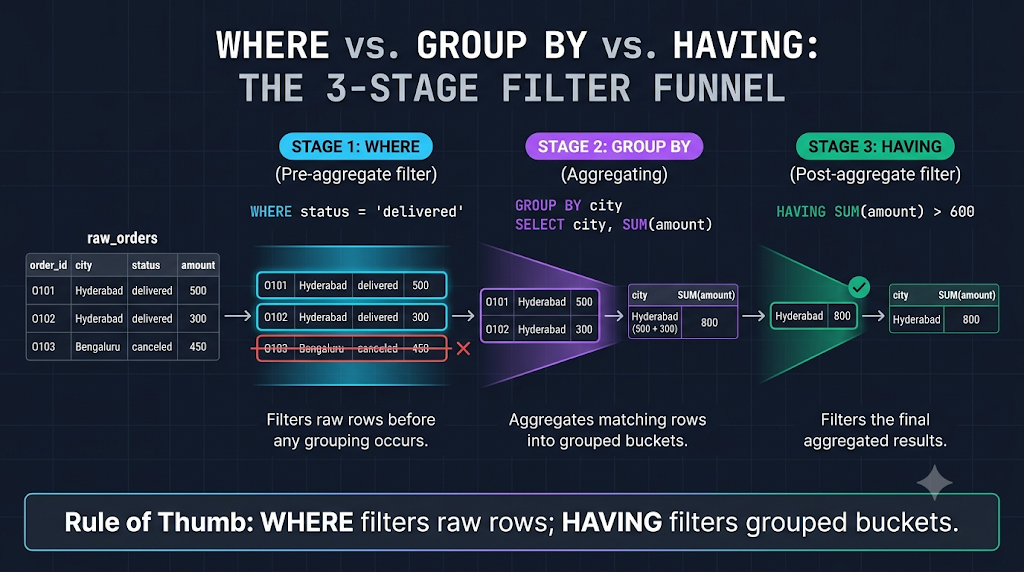
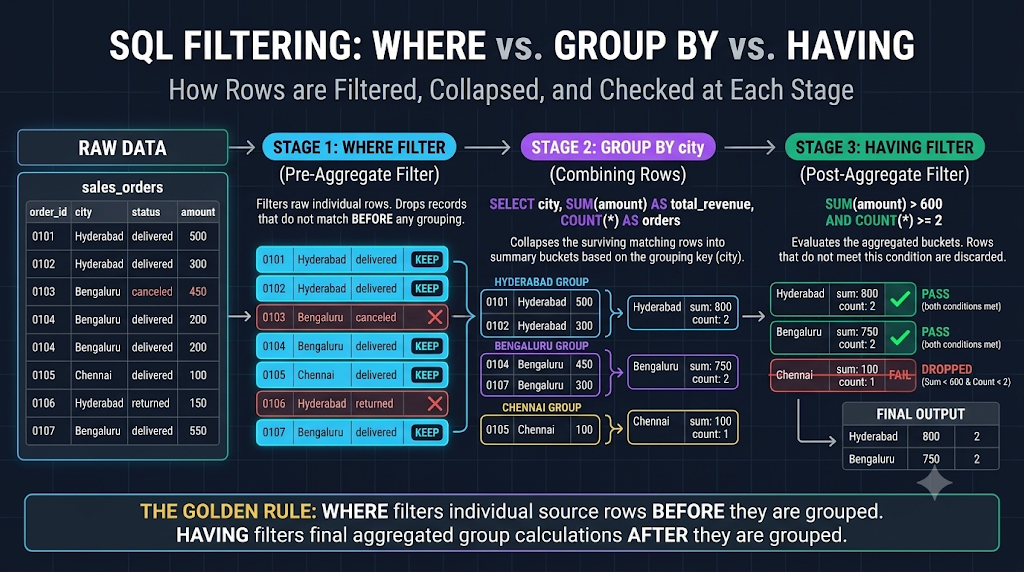
Replace Day 5 recap with expanded WHERE/GROUP BY/HAVING diagram.

diff --git a/weeks/week-01/Day_05_SQL_Window_Functions.html b/weeks/week-01/Day_05_SQL_Window_Functions.html
@@ -164,13 +164,11 @@
 
       <h3 class="text-lg font-semibold text-white mt-10">WHERE → GROUP BY → HAVING (filter funnel)</h3>
       <p class="text-xs text-zinc-400 mt-2 max-w-3xl leading-relaxed">
-        <code class="font-mono text-zinc-300">WHERE</code> drops raw rows <em>before</em> grouping (here: only <code class="font-mono">delivered</code>).
-        <code class="font-mono text-zinc-300">GROUP BY city</code> collapses to one row per city with <code class="font-mono">SUM(amount)</code>.
-        <code class="font-mono text-zinc-300">HAVING</code> filters those grouped buckets—not the same as <code class="font-mono">WHERE</code>.
-        This is why <code class="font-mono">WHERE SUM(...)</code> and <code class="font-mono">WHERE ROW_NUMBER()</code> are invalid in the same <code class="font-mono">SELECT</code> block.
+        Seven <code class="font-mono">sales_orders</code> rows → <code class="font-mono">WHERE status = 'delivered'</code> keeps five rows → <code class="font-mono">GROUP BY city</code> builds Hyderabad / Bengaluru / Chennai buckets with <code class="font-mono">SUM(amount)</code> and <code class="font-mono">COUNT(*)</code> → <code class="font-mono">HAVING SUM(amount) &gt; 600 AND COUNT(*) &gt;= 2</code> drops Chennai (too small). <strong class="text-zinc-300">Golden rule:</strong> <code class="font-mono">WHERE</code> filters raw rows; <code class="font-mono">HAVING</code> filters grouped results—same reason window ranks belong in an outer query.
       </p>
       <figure class="mt-6 rounded-2xl border border-violet-500/25 overflow-hidden bg-zinc-900/50">
-        <img src="assets/day05_recap_where_groupby_having.png" width="1200" height="675" alt="Three-stage funnel: WHERE on raw orders, GROUP BY city with SUM, HAVING SUM greater than 600" class="w-full h-auto block" loading="lazy" decoding="async">
+        <img src="assets/day05_recap_where_groupby_having.png" width="1200" height="675" alt="SQL filtering stages: WHERE delivered orders, GROUP BY city with SUM and COUNT, HAVING revenue over 600 and at least two orders" class="w-full h-auto block" loading="lazy" decoding="async">
+        <figcaption class="px-4 py-3 text-[11px] text-zinc-500 border-t border-zinc-800">SQL filtering: WHERE vs GROUP BY vs HAVING — rows filtered, collapsed, then bucket-checked.</figcaption>
       </figure>
 
       <div class="mt-8 rounded-2xl border border-amber-500/30 bg-amber-950/20 p-5 lg:p-6 max-w-4xl">
